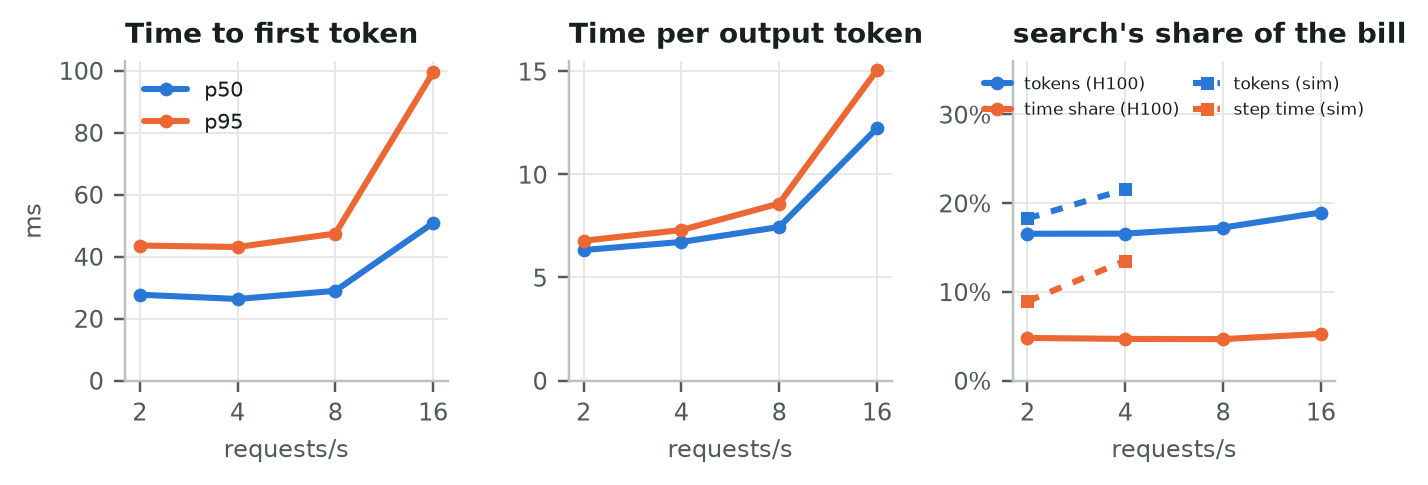
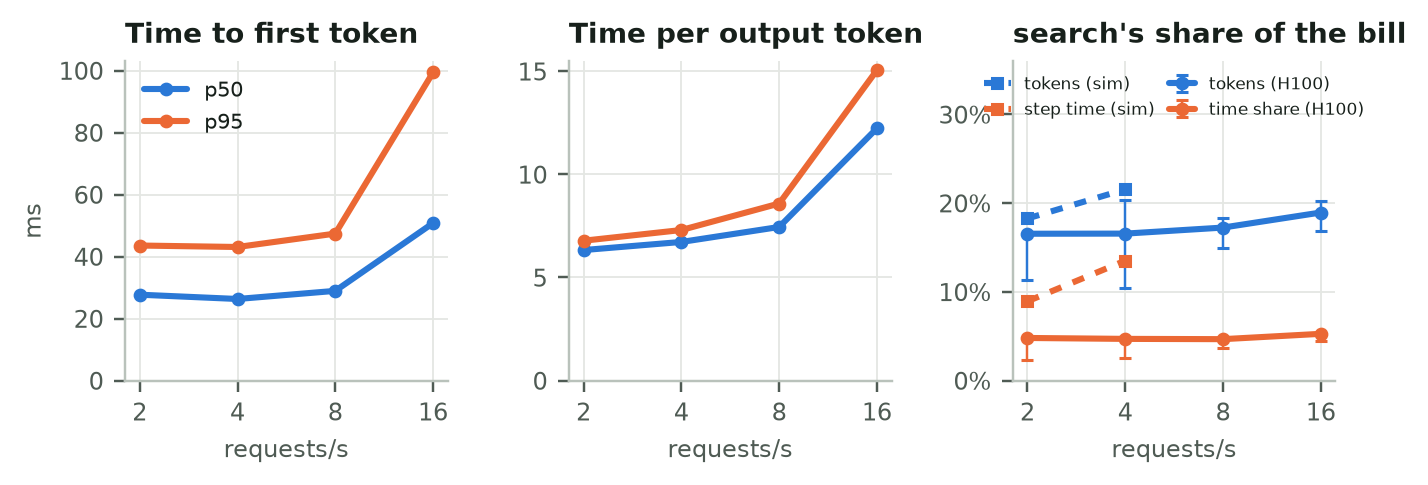
paper: error bars on the GPU meter figure
The right panel plotted a single point per load with nothing to say how
stable it was. It now carries the interquartile range of the same meter
recomputed in ten-second windows of the run. The bars are wider at 2 and
4 requests/s, where a window holds only about 35 completed requests, and
tight at 8 and 16 — which is the honest picture.

Within-run traffic variation only, and the caption says so.

diff --git a/paper/make_figures.py b/paper/make_figures.py
@@ -451,10 +451,24 @@ def gpu_validation() -> None:
     def search(split: dict[str, float]) -> float:
         return split["search"] / (1 - split.get("__overhead__", 0.0))
 
-    c.plot(rates, [search(r["meters"]["tokens"]) for r in runs], color=CAT[0], marker="o",
-           markersize=3.5, label="tokens (H100)")
-    c.plot(rates, [search(r["meters"]["time_share"]) for r in runs], color=CAT[1], marker="o",
-           markersize=3.5, label="time share (H100)")
+    # Error bars are the interquartile range of the same meter recomputed inside
+    # ten-second windows of the run: within-run traffic variation only, not
+    # run-to-run. Absent when a run is too short to window.
+    def iqr(run: dict, key: str) -> tuple[float, float]:
+        w = (run.get("within_run") or {}).get(key)
+        if not w:
+            return 0.0, 0.0
+        mid = search(run["meters"]["tokens" if key == "search_tokens" else "time_share"]) * 100
+        return max(0.0, mid - w["p25"]) / 100, max(0.0, w["p75"] - mid) / 100
+
+    for key, meter, color, label in (
+        ("search_tokens", "tokens", CAT[0], "tokens (H100)"),
+        ("search_time_share", "time_share", CAT[1], "time share (H100)"),
+    ):
+        lo, hi = zip(*[iqr(r, key) for r in runs], strict=False)
+        c.errorbar(rates, [search(r["meters"][meter]) for r in runs], yerr=[lo, hi],
+                   color=color, marker="o", markersize=3.5, label=label,
+                   elinewidth=0.8, capsize=2)
     # Simulator points only where it is not saturated, so the comparison is fair.
     healthy = [r for r in runs if max(r["simulator"]["ttft_p50_s"].values()) < 1.0]
     c.plot([r["rate_rps"] for r in healthy],
